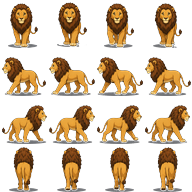
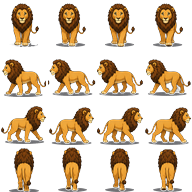
換上新版成年非洲獅走路基準圖；清掉朝左格腿縫殘白
- scale 0.159 對齊；r1c3 腿縫近白殘留(23px)清成透明
- ASSET_VER +1

Claude-Session: https://claude.ai/code/session_01C8kxTgjCc6TXezEuGUD9Qi

diff --git a/js/render.js b/js/render.js
@@ -9,7 +9,7 @@ import { TILE_W, TILE_H, GROUND, STRUCTURES, ANIMALS } from "./config.js";
 import { gridToScreen } from "./iso.js";
 
 const HW = TILE_W / 2, HH = TILE_H / 2;
-const ASSET_VER = 21; // 換 assets 圖後 +1，自動破壞快取載新圖
+const ASSET_VER = 22; // 換 assets 圖後 +1，自動破壞快取載新圖
 const toInt = (h) => parseInt(h.slice(1), 16);
 const ROW = { down: 0, left: 1, right: 2, up: 3 }; // 精靈圖方向列順序：前/左/右/後
 